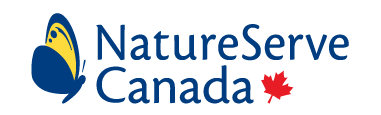
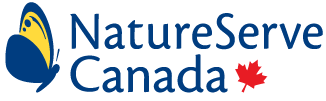
Metadata refinement baesd on team feedback

diff --git a/EBARUtils.py b/EBARUtils.py
@@ -73,19 +73,17 @@ eo_rank_dict = {'Excellent estimated viability/ecological integrity': 'A',
 scope_dict = {'G': 'Global',
               'N': 'National',
               'A': 'North American',
-              None: 'Global'}
+              None: 'None'}
 
 
 metadata_body = '''
-              <img src="[logo_image]" width="400">
+              <img src="[logo_image]" width="280">
               <br>
               <header>
-                <h1>Ecosystem-based Automated Range (EBAR) Map Metadata</h1>
+                <h1>Ecosystem-based Automated Range Map (EBAR) Metadata</h1>
               </header>
               <hr style="height:5px;color:#5c9400;background-color:#5c9400">
-              <br>
-              <img src="[species_header_image]" width="1000">
-              <br>
+              <br><img src="[species_header_image]" width="195"><br><br>
               <header>
                 <table>
                   <tr><td><h3>National Scientific Name:</h3></td><td><h3>[BIOTICS_ELEMENT_NATIONAL.NATIONAL_SCIENTIFIC_NAME]</h3></td></tr>
@@ -94,11 +92,10 @@ metadata_body = '''
                   <tr><td><h3>Element Code:</h3></td><td><h3>[BIOTICS_ELEMENT_NATIONAL.ELEMENT_CODE]</h3></td></tr>
                   <tr><td><h3>Element National ID:</h3></td><td><h3>[BIOTICS_ELEMENT_NATIONAL.ELEMENT_NATIONAL_ID]</h3></td></tr>
                   <tr><td><h3>Element Global ID:</h3></td><td><h3>[BIOTICS_ELEMENT_NATIONAL.ELEMENT_GLOBAL_ID]</h3></td></tr>
+                  <tr><td><h3>Endemism:</h3></td><td><h3>[BIOTICS_ELEMENT_NATIONAL.G_JURIS_ENDEM_DESC]</h3></td></tr>
                 </table>
               </header>
-              <br>
-              <img src="[rank_status_header_image]" width="1000">
-              <br>
+              <br><img src="[rank_status_header_image]" width="195"><br><br>
               <header>
                 <table>
                   <tr><td><h3>Global Rank:</h3></td><td><h3>[NSE.grank] (reviewed [NSE.grankReviewDate])</h3></td></tr>
@@ -113,9 +110,7 @@ metadata_body = '''
                   <tr><td><h3>US ESA Status:</h3></td><td><h3>[NSE.esaStatus]</h3></td></tr>
                 </table>
               </header>
-              <br>
-              <img src="[range_map_header_image]" width="1000">
-              <br>
+              <br><img src="[range_map_header_image]" width="195"><br><br>
               <header>
                 <table>
                   <tr><td><h3>Date:</h3></td><td><h3>[RangeMap.RangeDate]</h3></td></tr>
@@ -125,23 +120,27 @@ metadata_body = '''
                   <tr><td><h3>Notes:</h3></td><td><h3>[RangeMap.RangeMapNotes]</h3></td></tr>
                   <tr><td><h3></h3></td><td><h3>[RangeMap.RangeMetadata]</h3></td></tr>
                   <tr><td><h3>Comments:</h3></td><td><h3>[RangeMap.RangeMapComments]</h3></td></tr>
+                </table>
               </header>
-              <br>
-              <img src="[reviews_header_image]" width="1000">
-              <br>
+              <br><img src="[reviews_header_image]" width="195"><br><br>
               <header>
-                <h3>Number of Reviews: [Reviews.Count]</h3>
-                <h3>Average Star Rating: [Reviews.AverageStarRating]</h3>
+                <table>
+                  <tr><td><h3>Number of Reviews:</h3></td><td><h3>[Reviews.Count]</h3></td></tr>
+                  <tr><td><h3>Average Star Rating:</h3></td><td><h3>[Reviews.AverageStarRating]</h3></td></tr>
+                </table>
               </header>
-              <br>
-              <img src="[credits_header_image]" width="1000">
-              <br>
+              <br><img src="[credits_header_image]" width="195"><br><br>
               <header>
-                <h3>Suggested Citation: Ecosystem-based Automated Range Map (EBAR) Project, ''' + \
-                    '''© NatureServe Canada 2020 under CC BY 4.0</h3>
-                <h3>Input References:</h3>
-                <h3>[InputReferences]</h3>
-                <h3>Reviewers by Taxa: [ReviewersByTaxa]</h3>
+                <table>
+                  <tr><td><h3>Suggested Citation:</h3></td><td><h3>NatureServe Canada. 2020. Ecosystem-based ''' + \
+                      '''Automated Range (EBAR). Ottawa, Canada. Retrieved from [insert url] on [insert data]</h3></td></tr>
+                  <tr><td><h3>License:</h3></td><td><h3>Ecosystem-based Automated Range Map (EBAR) Project, ''' + \
+                      '''© NatureServe Canada 2020 under CC BY 4.0 (<a href="https://creativecommons.org/licenses/by/4.0/">creativecommons.org/licenses/by/4.0/</a>)</h3></td></tr>
+                  <tr><td><h3>Additional Information:</h3></td><td><h3><a href="https://www.natureserve.org/natureserve-network/canada/biodiversity-data/ebar-range-mapping">www.natureserve.org/natureserve-network/canada/biodiversity-data/ebar-range-mapping</a></h3></td></tr>
+                  <tr><td><h3>Contact:</h3></td><td><h3><a href="mailto:ebar-kba@natureserve.ca">ebar-kba@natureserve.ca</a></h3></td></tr>
+                  <tr><td><h3>Input References:</h3></td><td><h3>[InputReferences]</h3></td></tr>
+                  <tr><td><h3>Reviewers by Taxa:</h3></td><td><h3>[ReviewersByTaxa]</h3></td></tr>
+                </table>
               </header>
 '''
 

diff --git a/PublishRangeMapTool.py b/PublishRangeMapTool.py
@@ -35,7 +35,7 @@ class PublishRangeMapTool:
 
         # settings
         #arcpy.gp.overwriteOutput = True
-        arcgis_pro_project = 'C:/GIS/EBAR/EBAR.aprx'
+        arcgis_pro_project = 'C:/GIS/EBAR/EBARTools/resources/EBARLayouts.aprx'
         resources_folder = 'C:/GIS/EBAR/EBARTools/resources'
         reviewers_by_taxa_file = 'C:/GIS/EBAR/EBARTools/resources/ReviewersByTaxa.txt'
         temp_folder = 'C:/GIS/EBAR/pub/temp'
@@ -79,9 +79,10 @@ class PublishRangeMapTool:
                     metadata_body = metadata_body.replace('[RangeMap.RangeDate]', row['RangeDate'].strftime('%B %d, %Y'))
                     metadata_body = metadata_body.replace('[RangeMap.RangeVersion]', row['RangeVersion'])
                     metadata_body = metadata_body.replace('[RangeMap.RangeStage]', row['RangeStage'])
-                    metadata_body = metadata_body.replace('[RangeMap.RangeMapScope]', row['RangeMapScope'])
+                    metadata_body = metadata_body.replace('[RangeMap.RangeMapScope]', EBARUtils.scope_dict[row['RangeMapScope']])
                     metadata_body = metadata_body.replace('[RangeMap.RangeMapNotes]', row['RangeMapNotes'])
-                    metadata_body = metadata_body.replace('[RangeMap.RangeMapComments]', row['RangeMapComments'])
+                    metadata_body = metadata_body.replace('[RangeMap.RangeMetadata]', row['RangeMetadata'])
+                    metadata_body = metadata_body.replace('[RangeMap.RangeMapComments]', str(row['RangeMapComments']))
                 if species_id:
                     del row
                 else:
@@ -94,7 +95,8 @@ class PublishRangeMapTool:
             element_code = None
             with arcpy.da.SearchCursor(ebar_feature_service + '/4', 
                                        ['NATIONAL_SCIENTIFIC_NAME', 'NATIONAL_ENGL_NAME', 'NATIONAL_FR_NAME',
-                                        'ELEMENT_NATIONAL_ID', 'ELEMENT_GLOBAL_ID', 'ELEMENT_CODE'],
+                                        'ELEMENT_NATIONAL_ID', 'ELEMENT_GLOBAL_ID', 'ELEMENT_CODE',
+                                        'G_JURIS_ENDEM_DESC'],
                                        'SpeciesID = ' + str(species_id)) as cursor:
                 for row in EBARUtils.searchCursor(cursor):
                     metadata_body = metadata_body.replace('[BIOTICS_ELEMENT_NATIONAL.NATIONAL_SCIENTIFIC_NAME]',
@@ -113,15 +115,19 @@ class PublishRangeMapTool:
                                                           element_global_id)
                     element_code = row['ELEMENT_CODE']
                     metadata_body = metadata_body.replace('[BIOTICS_ELEMENT_NATIONAL.ELEMENT_CODE]', element_code)
+                    endemism = 'None'
+                    if row['G_JURIS_ENDEM_DESC']:
+                        endemism = row['G_JURIS_ENDEM_DESC']
+                    metadata_body = metadata_body.replace('[BIOTICS_ELEMENT_NATIONAL.G_JURIS_ENDEM_DESC]', endemism)
                 del row
 
-            # get species data from database
-            kba_trigger = None
-            with arcpy.da.SearchCursor(ebar_feature_service + '/19', ['KBATrigger'],
-                                       'SpeciesID = ' + str(species_id)) as cursor:
-                for row in EBARUtils.searchCursor(cursor):
-                    metadata_body = metadata_body.replace('[Species.KBATrigger]', row['KBATrigger'])
-                del row
+            ## get species data from database
+            #kba_trigger = None
+            #with arcpy.da.SearchCursor(ebar_feature_service + '/19', ['KBATrigger'],
+            #                           'SpeciesID = ' + str(species_id)) as cursor:
+            #    for row in EBARUtils.searchCursor(cursor):
+            #        metadata_body = metadata_body.replace('[Species.KBATrigger]', row['KBATrigger'])
+            #    del row
 
             # summarize completed reviews for this version of the range map
             with arcpy.da.SearchCursor(ebar_feature_service + '/19', ['KBATrigger'],
@@ -154,7 +160,8 @@ class PublishRangeMapTool:
             result = requests.get(nse_taxon_search_url + element_global_id)
             results = json.loads(result.content)
             metadata_body = metadata_body.replace('[NSE.grank]', results['grank'])
-            metadata_body = metadata_body.replace('[NSE.grankReviewDate]', results['grankReviewDate'])
+            metadata_body = metadata_body.replace('[NSE.grankReviewDate]',
+                                                  EBARUtils.extractDate(results['grankReviewDate']).strftime('%B %d, %Y'))
             ca_rank = 'None'
             us_rank = 'None'
             mx_rank = 'None'
@@ -261,7 +268,7 @@ class PublishRangeMapTool:
                   padding: 5px;
                 }
                 h3 {
-                  line-height: 50%
+                  line-height: 55%
                 }
               </style>
               <img src="''' + download_folder + '/EBAR' + str(param_range_map_id) + '.jpg' + '''" width="1500">
